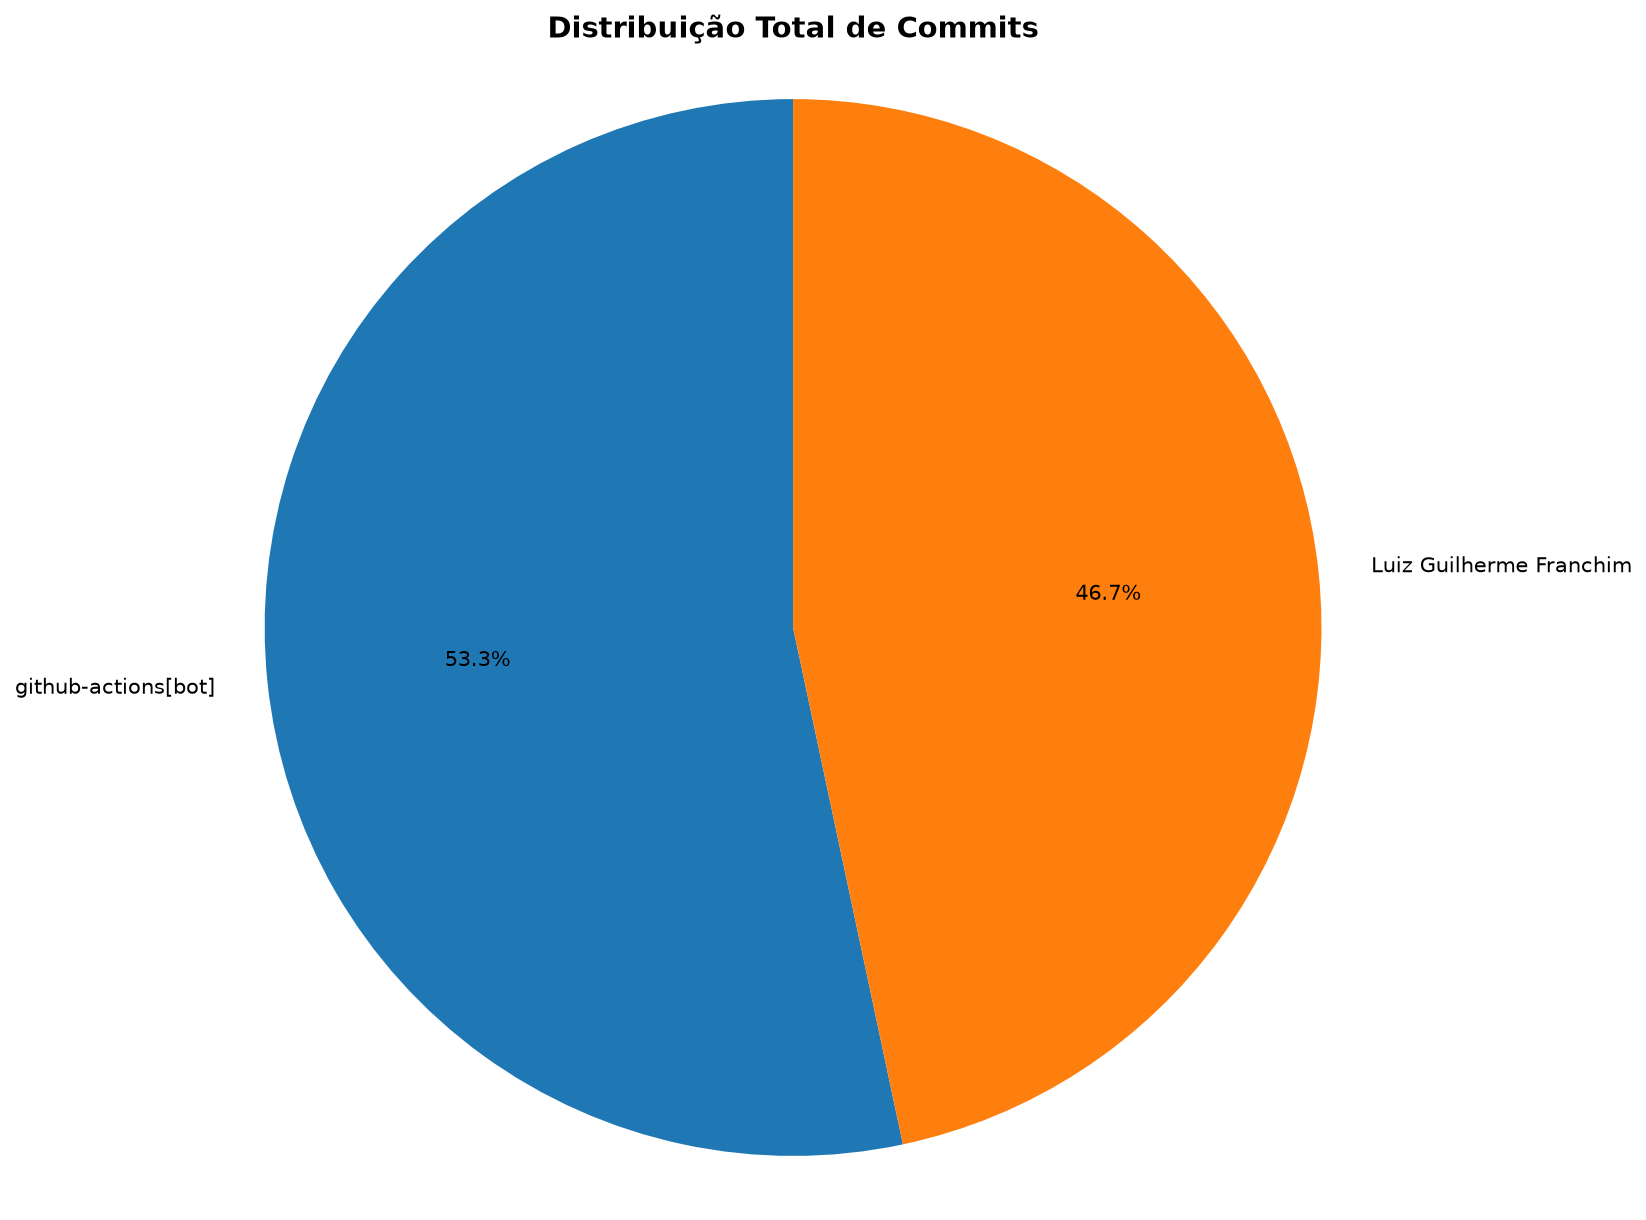
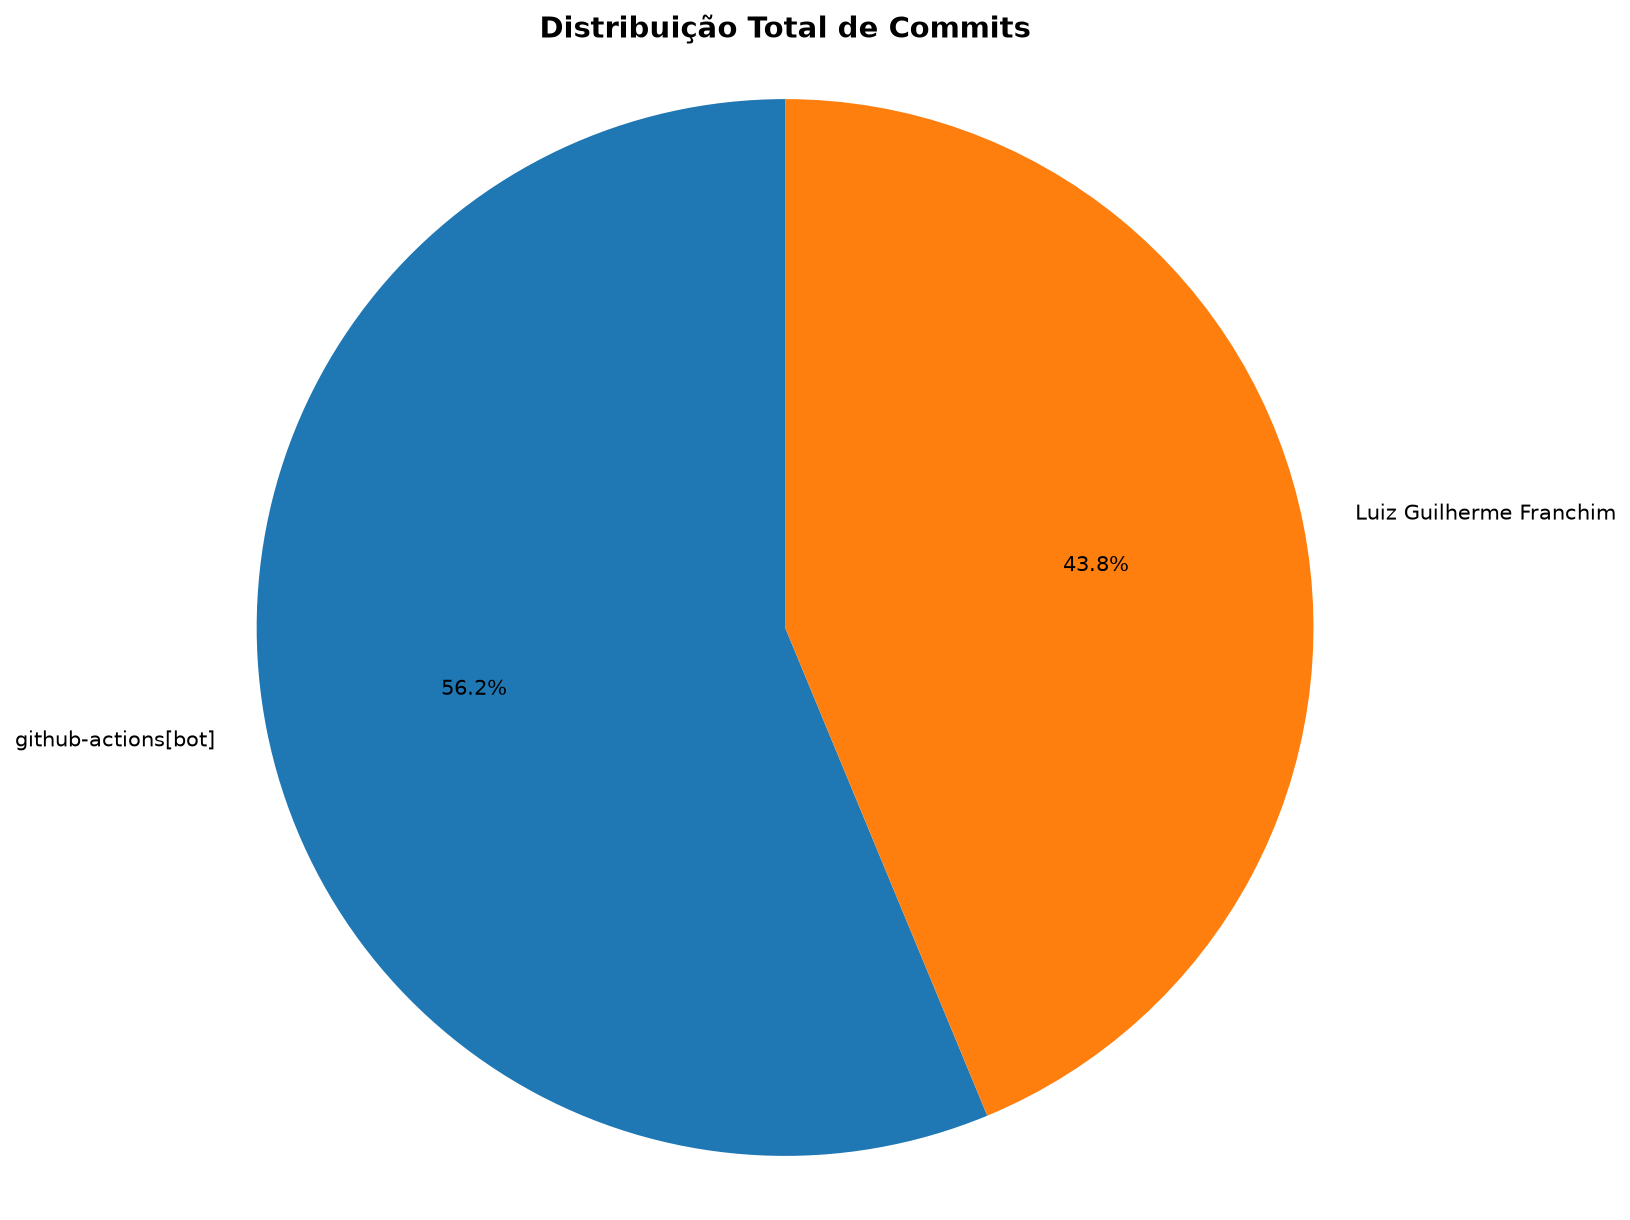
📊 Atualizar relatório de contribuições [skip ci]

diff --git a/documentos/CONTRIBUTION_REPORT.md b/documentos/CONTRIBUTION_REPORT.md
@@ -1,6 +1,6 @@
 # 📊 Relatório de Contribuições do Projeto
 
-**Última atualização:** 28/09/2026 00:48
+**Última atualização:** 05/10/2026 00:49
 
 ---
 
@@ -9,10 +9,12 @@
 | Aluno                   |   Commits |   Linhas+ |   Linhas- |   Arquivos |   Docs Commits |   Docs Arquivos |
 |-------------------------|-----------|-----------|-----------|------------|----------------|-----------------|
 | Luiz Guilherme Franchim |         7 |      1395 |        49 |         27 |              6 |               3 |
-| github-actions[bot]     |         8 |        70 |        24 |          3 |              8 |               1 |
+| github-actions[bot]     |         9 |        73 |        27 |          3 |              9 |               1 |
 
 
 ## 📅 Contribuições Semanais (Todo o Semestre)
+
+**2026-09-21**: github-actions[bot]: 1
 
 **2026-09-14**: github-actions[bot]: 1
 
